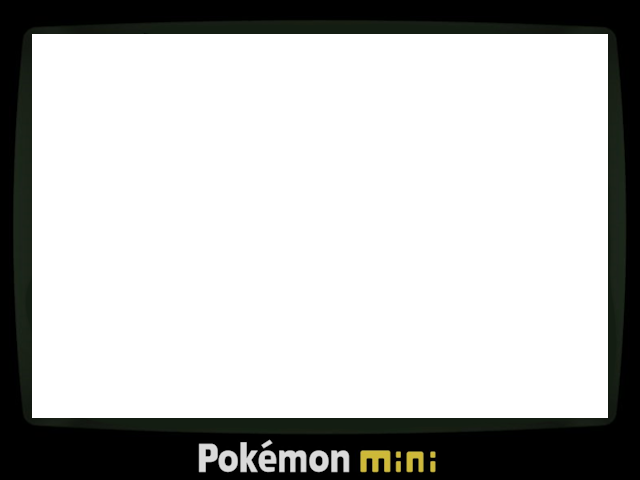
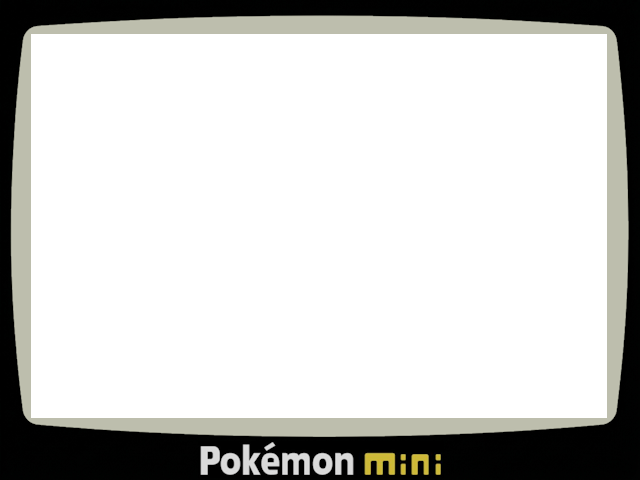
MINI

Changed region(s): [[0.0, 0.0312, 1.0, 1.0]]

diff --git a/src/run.rs b/src/run.rs
@@ -81,6 +81,9 @@ const RUMBLE_ON_MAX: Duration = Duration::from_millis(160);
 const RUMBLE_REARM: Duration = Duration::from_millis(250);
 /// A jump this large while the pack is already high is a new spike.
 const RUMBLE_RISE: u16 = 0x2000;
+/// Standard libretro rumble is a switch, but PokeMini can toggle it for a
+/// single frame. Keep the motor on briefly so short pulses are felt.
+const RUMBLE_HOLD: Duration = Duration::from_millis(150);
 /// Let the emulation lead the audio clock by this much before the audio
 /// callback blocks. RetroArch gets this pacing from its blocking audio
 /// driver; MAGI's writer does not block the core.
@@ -312,10 +315,16 @@ fn default_option(core: &str, system: &str, key: &str) -> Option<&'static str> {
         // PokeMini: 6x puts the 96x64 LCD at 576x384, close to the 640/720
         // panels, so the internal dot matrix survives the final scale.
         ("pokemini", "pokemini_video_scale") => Some("6x"),
+        ("pokemini", "pokemini_lcdfilter") => Some("none"),
+        ("pokemini", "pokemini_lcdmode") => Some("analog"),
+        ("pokemini", "pokemini_lcdcontrast") => Some("64"),
+        ("pokemini", "pokemini_lcdbright") => Some("0"),
+        ("pokemini", "pokemini_palette") => Some("LEDBacklight"),
+        ("pokemini", "pokemini_piezofilter") => Some("enabled"),
         // The H700 panel runs at 60Hz; the core's 72Hz native rate would tear.
         ("pokemini", "pokemini_60hz_mode") => Some("enabled"),
         // PS1 (PCSX-ReARMed)
-        ("pcsx_rearmed", "pcsx_rearmed_show_bios_bootlogo") => Some("disabled"),
+        ("pcsx_rearmed", "pcsx_rearmed_show_bios_bootlogo") => Some("enabled"),
         ("pcsx_rearmed", "pcsx_rearmed_dithering") => Some("disabled"),
         ("pcsx_rearmed", "pcsx_rearmed_frameskip_type") => Some("auto_threshold"),
         ("pcsx_rearmed", "pcsx_rearmed_frameskip_threshold") => Some("15"),
@@ -545,6 +554,10 @@ struct Ctx {
     rumble_low_at: Option<Instant>,
     rumble_armed: bool,
     rumble_ok: bool,
+    /// Minimum hold for the standard libretro rumble switch, and the motor
+    /// device warning latch.
+    rumble_hold_until: Option<Instant>,
+    rumble_warned: bool,
     /// The core's disk table while a multi-disc game is loaded.
     disk: Option<DiskControl>,
     system: String,
@@ -563,6 +576,12 @@ struct Ctx {
     hw_render: Option<HwRender>,
 }
 
+/// Flycast's Purupuru value is a continuous level; every other core reports a
+/// normal rumble switch.
+fn rumble_is_spike(core: &str) -> bool {
+    core == "flycast"
+}
+
 impl Ctx {
     /// The handheld's vibration motor: a write-only sysfs switch on the
     /// AXP2202. The state is cached so a core pulsing rumble at frame rate
@@ -577,6 +596,26 @@ impl Ctx {
                 return self.write_motor(false);
             }
             return true;
+        }
+        if !rumble_is_spike(&self.opt_key) {
+            // Standard libretro rumble is a switch. PokeMini in particular
+            // can pulse it for a single frame; keep the motor on for a short
+            // minimum so those pulses are felt.
+            let now = Instant::now();
+            if strength == 0 {
+                self.rumble_high = false;
+                if self.rumble_on && self.rumble_hold_until.is_none_or(|t| now >= t) {
+                    self.rumble_hold_until = None;
+                    return self.write_motor(false);
+                }
+                return true;
+            }
+            self.rumble_high = true;
+            self.rumble_hold_until = Some(now + RUMBLE_HOLD);
+            if self.rumble_on {
+                return true;
+            }
+            return self.write_motor(true);
         }
         let now = Instant::now();
         let high = strength >= RUMBLE_MIN_STRENGTH;
@@ -634,9 +673,19 @@ impl Ctx {
         self.write_motor(true)
     }
 
+    /// End a standard rumble pulse once its minimum hold has elapsed.
+    fn tick_rumble(&mut self, now: Instant) {
+        if self.rumble_on && !self.rumble_high && self.rumble_hold_until.is_some_and(|t| now >= t) {
+            self.rumble_hold_until = None;
+            self.write_motor(false);
+        }
+    }
+
     /// The AXP2202 keeps the motor state across process restarts. Clear it
     /// at launch so a killed run cannot leave the console buzzing.
     fn reset_motor(&mut self) {
+        self.rumble_high = false;
+        self.rumble_hold_until = None;
         self.write_motor(false);
     }
 
@@ -646,14 +695,27 @@ impl Ctx {
                 .write(true)
                 .open("/sys/class/power_supply/axp2202-battery/moto")
                 .ok();
-        }
-        if let Some(f) = &mut self.moto {
-            use std::io::Write;
-            if f.write_all(if on { b"1" } else { b"0" }).is_ok() {
-                self.rumble_on = on;
-                self.rumble_at = Some(Instant::now());
-                return true;
+            if self.moto.is_none() {
+                if !self.rumble_warned {
+                    self.rumble_warned = true;
+                    util::log("rumble: motor device unavailable");
+                }
+                return false;
             }
+        }
+        use std::io::Write;
+        let wrote = self
+            .moto
+            .as_mut()
+            .is_some_and(|f| f.write_all(if on { b"1" } else { b"0" }).is_ok());
+        if wrote {
+            self.rumble_on = on;
+            self.rumble_at = Some(Instant::now());
+            return true;
+        }
+        if !self.rumble_warned {
+            self.rumble_warned = true;
+            util::log("rumble: cannot write motor state");
         }
         false
     }
@@ -1584,6 +1646,8 @@ fn play(system_id: &str, core_name: &str, rom: &str) -> Result<()> {
         rumble_low_at: None,
         rumble_armed: true,
         rumble_ok: true,
+        rumble_hold_until: None,
+        rumble_warned: false,
         disk: None,
         system: system_id.to_string(),
         rom: rom.to_string(),
@@ -2832,6 +2896,8 @@ fn play(system_id: &str, core_name: &str, rom: &str) -> Result<()> {
                 rewind_next = core_frames + every;
             }
         }
+
+        ctx().tick_rumble(Instant::now());
 
         // With a frame up, restore the hold-MENU auto state if one was
         // left for us; it is consumed on a successful read. A held when the
@@ -4797,7 +4863,7 @@ mod option_tests {
     #[test]
     fn psx_defaults_follow_the_handheld_setting() {
         for (key, value) in [
-            ("pcsx_rearmed_show_bios_bootlogo", "disabled"),
+            ("pcsx_rearmed_show_bios_bootlogo", "enabled"),
             ("pcsx_rearmed_dithering", "disabled"),
             ("pcsx_rearmed_frameskip_type", "auto_threshold"),
             ("pcsx_rearmed_frameskip_threshold", "15"),
@@ -4863,14 +4929,83 @@ mod option_tests {
         assert!(!super::pokemini_option_kept("Low Pass Filter"));
         assert!(!super::pokemini_option_kept("Low Pass Filter Level (%)"));
         assert!(!super::pokemini_option_kept("Turbo Button Period"));
+        for (key, value) in [
+            ("pokemini_video_scale", "6x"),
+            ("pokemini_lcdfilter", "none"),
+            ("pokemini_lcdmode", "analog"),
+            ("pokemini_lcdcontrast", "64"),
+            ("pokemini_lcdbright", "0"),
+            ("pokemini_palette", "LEDBacklight"),
+            ("pokemini_piezofilter", "enabled"),
+            ("pokemini_60hz_mode", "enabled"),
+        ] {
+            assert_eq!(
+                default_option("pokemini", "pokemini", key),
+                Some(value),
+                "{key}"
+            );
+        }
+    }
+
+    #[test]
+    fn pokemini_defaults_do_not_override_saved_choices() {
+        let filters = ["dotmatrix", "scanline", "none"].map(str::to_string);
         assert_eq!(
-            default_option("pokemini", "pokemini", "pokemini_video_scale"),
-            Some("6x")
+            chosen_index(
+                "pokemini",
+                "pokemini",
+                "pokemini_lcdfilter",
+                &filters,
+                None,
+                false
+            ),
+            2
         );
+        let saved = "dotmatrix".to_string();
         assert_eq!(
-            default_option("pokemini", "pokemini", "pokemini_60hz_mode"),
-            Some("enabled")
+            chosen_index(
+                "pokemini",
+                "pokemini",
+                "pokemini_lcdfilter",
+                &filters,
+                Some(&saved),
+                false
+            ),
+            0
         );
+
+        let palettes = ["Default", "LEDBacklight"].map(str::to_string);
+        assert_eq!(
+            chosen_index(
+                "pokemini",
+                "pokemini",
+                "pokemini_palette",
+                &palettes,
+                None,
+                false
+            ),
+            1
+        );
+        let saved = "Default".to_string();
+        assert_eq!(
+            chosen_index(
+                "pokemini",
+                "pokemini",
+                "pokemini_palette",
+                &palettes,
+                Some(&saved),
+                false
+            ),
+            0
+        );
+    }
+
+    #[test]
+    fn rumble_spike_filter_is_flycast_only() {
+        assert!(super::rumble_is_spike("flycast"));
+        assert!(!super::rumble_is_spike("pokemini"));
+        assert!(!super::rumble_is_spike("mgba"));
+        assert!(!super::rumble_is_spike("gambatte"));
     }
 
     #[test]

diff --git a/src/run/menu/draw.rs b/src/run/menu/draw.rs
@@ -1551,6 +1551,8 @@ pub(crate) fn draw_menu_preview(
         rumble_low_at: None,
         rumble_armed: true,
         rumble_ok: false,
+        rumble_hold_until: None,
+        rumble_warned: false,
         disk: Some(DiskControl {
             set_eject_state: dc_eject,
             get_eject_state: dc_get_eject,

diff --git a/CHANGELOG.md b/CHANGELOG.md
@@ -2,6 +2,15 @@
 
 All notable changes to MAGI are documented here.
 
+## [Unreleased]
+
+### Changes
+
+- Pokemon Mini:
+  - Improve the bezels
+  - Set new CORE defaults
+  - Fix rumble
+
 ## [1.3.0] - 2026-11-10
 
 ### NEW SYSTEMS ADDED
